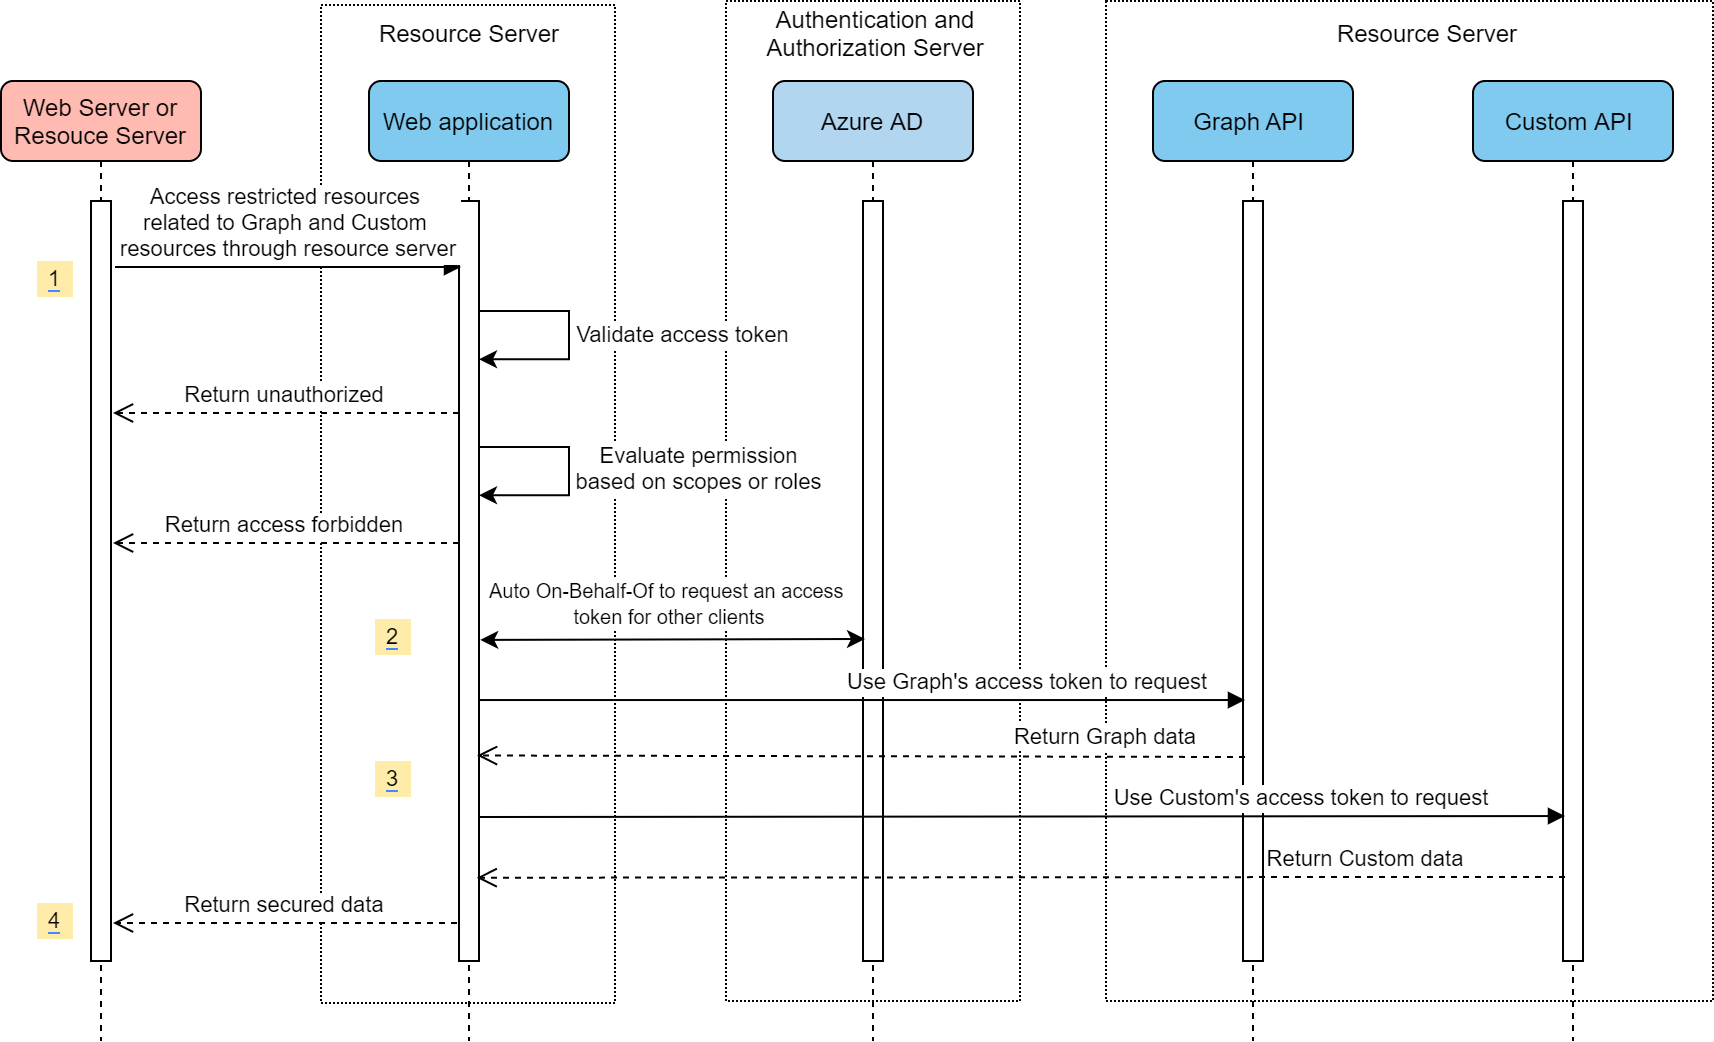
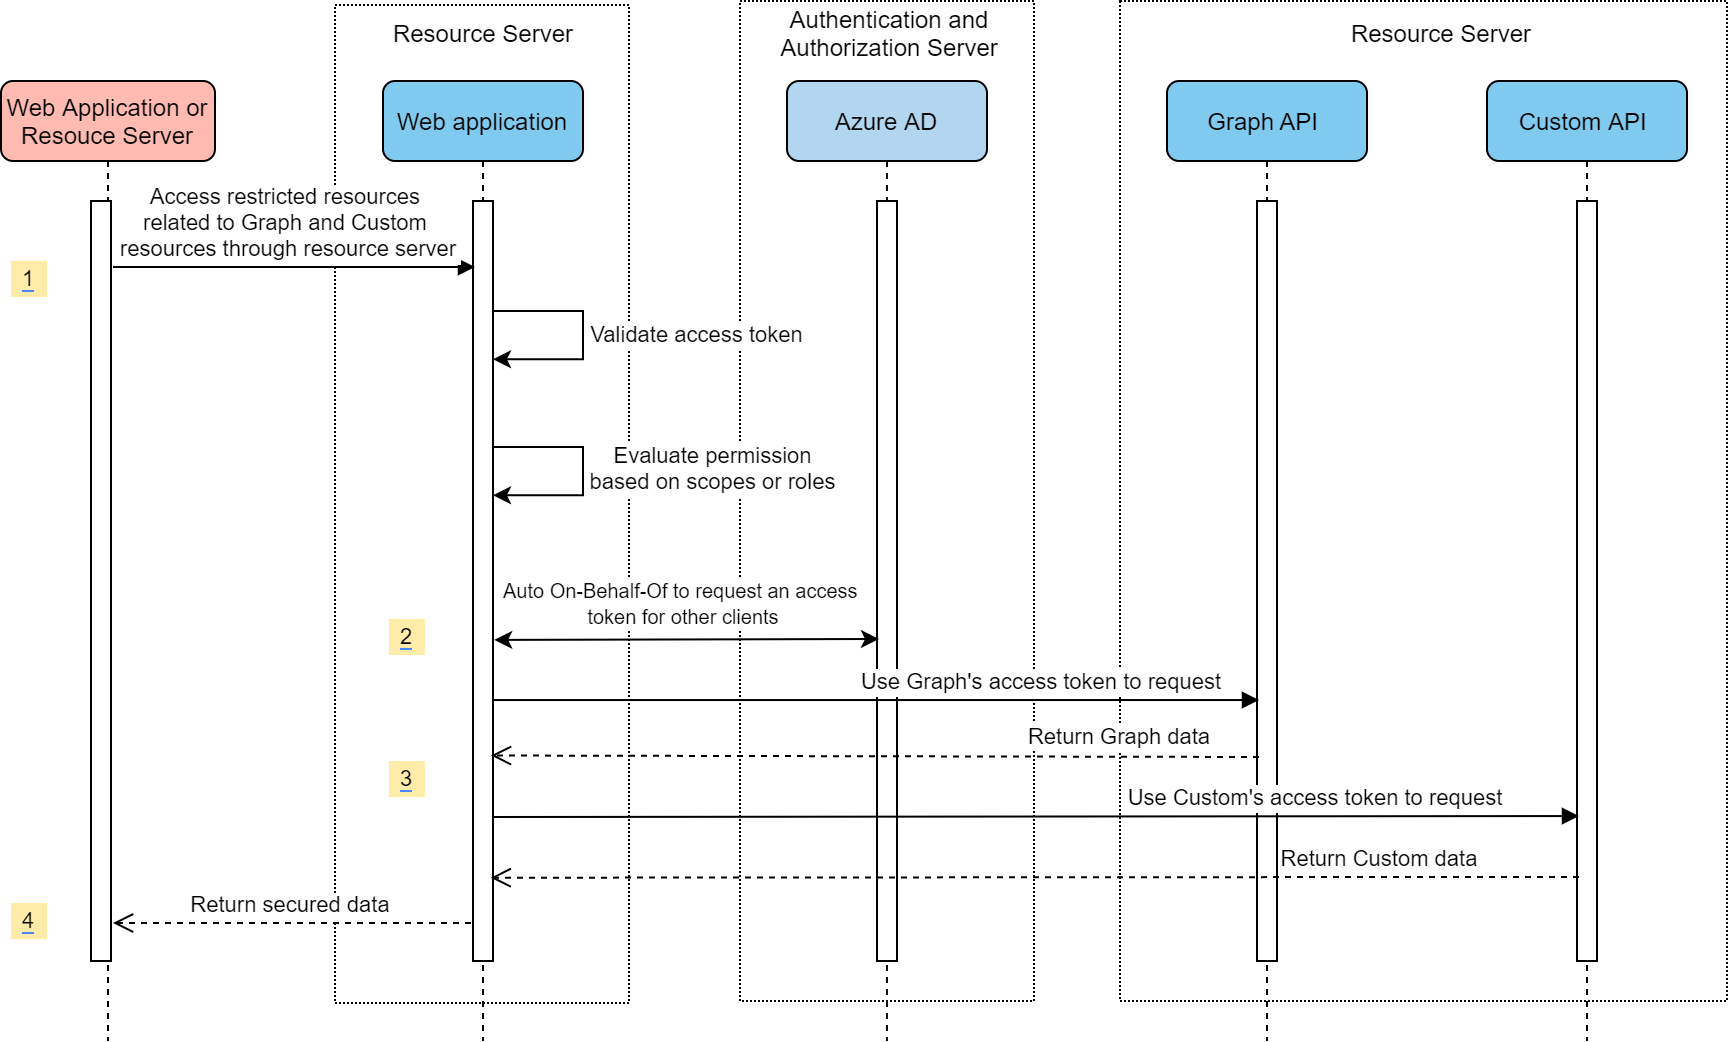
Update diagram description

diff --git a/sdk/spring/azure-spring-boot-starter-active-directory/README.md b/sdk/spring/azure-spring-boot-starter-active-directory/README.md
@@ -39,20 +39,20 @@ The way to obtain group relationship that will determine which graph api will be
 * **direct**: the default value, get groups that the user is a direct member of. For details, see [list memberOf][graph-api-list-member-of] api.
 * **transitive**: Get groups that the user is a member of, and will also return all groups the user is a nested member of. For details, see [list transitive memberOf][graph-api-list-transitive-member-of] api.
 
-### Web Server
-Based on Azure AD as a Web Server, it uses OAuth2 authorization code flow to authentication, and authorizes resources based on the scopes or roles claim in the access token. 
-Provide a convenient way to quickly access other resource server, other resources should be registered as `ClientRegistration`, use `@RegisteredOAuth2AuthorizedClient` annotation to mark the client resource, Security will help automatically obtain valid access tokens based on the root refresh token, business methods will use the corresponding access token to request client resources.
+### Web application
+Based on Azure AD as a Web application, it uses OAuth2 authorization code flow to authentication, and authorizes resources based on the scopes or roles claim in the access token. 
+Provide a convenient way to quickly access other resource server, other resources should be registered as `ClientRegistration`, use `@RegisteredOAuth2AuthorizedClient` annotation to mark the client resource, Spring Security will help automatically obtain valid access tokens based on the root refresh token, business methods will use the corresponding access token to request client resources.
 
-#### Standalone web server usage
-Only as a Web Server, no further access to other resources protected by Azure AD.
-![Standalone Web Server](resource/aad-based-standalone-web-server.png)
+#### Standalone web application usage
+Only as a Web application, no further access to other resources protected by Azure AD.
+![Standalone Web Application](resource/aad-based-standalone-web-application.png)
 
-* Access restricted resources of Web Server, login with credentials using default scopes.
+* Access restricted resources of web application, login with credentials using default scopes.
 * Return secured data.
 
-#### Web server access resources usage
-Web Server and resource server use scenarios, Web server access the resources of resource server which is protected by Azure AD.
-![Web Server Access Resources](resource/add-based-web-server-access-resources.png)
+#### Web application access resources usage
+Web application and resource server use scenarios, web application access the resources of resource server which is protected by Azure AD.
+![Web Application Access Resources](resource/add-based-web-application-access-resources.png)
 
 * Login with credentials, the scope includes all other clients. 
 * Auto-refresh the access token of other clients based on the root refresh token.
@@ -60,7 +60,7 @@ Web Server and resource server use scenarios, Web server access the resources of
 * Return secured data.
 
 ### Resource Server
-Based on Azure AD as a Resource Server, it uses `BearerTokenAuthenticationFilter` authorize request. The current resource server also can access other resources, there's a similar method to the Web server usage to obtain access to the client access token, the difference is the access token obtained based on the `MSAL On-Behalf-Of` process.
+Based on Azure AD as a Resource Server, it uses `BearerTokenAuthenticationFilter` authorize request. The current resource server also can access other resources, there's a similar method to the web application usage to obtain access to the client access token, the difference is the access token obtained based on the `MSAL On-Behalf-Of` process.
 
 #### Standalone resource server usage
 Only as a Resource Server, no further access to other resources protected by Azure AD.
